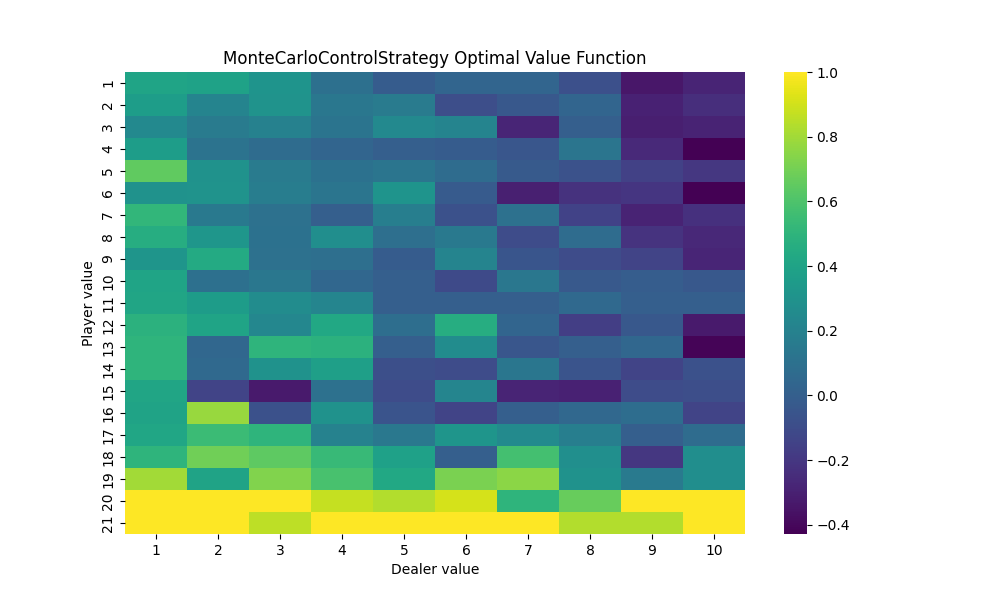
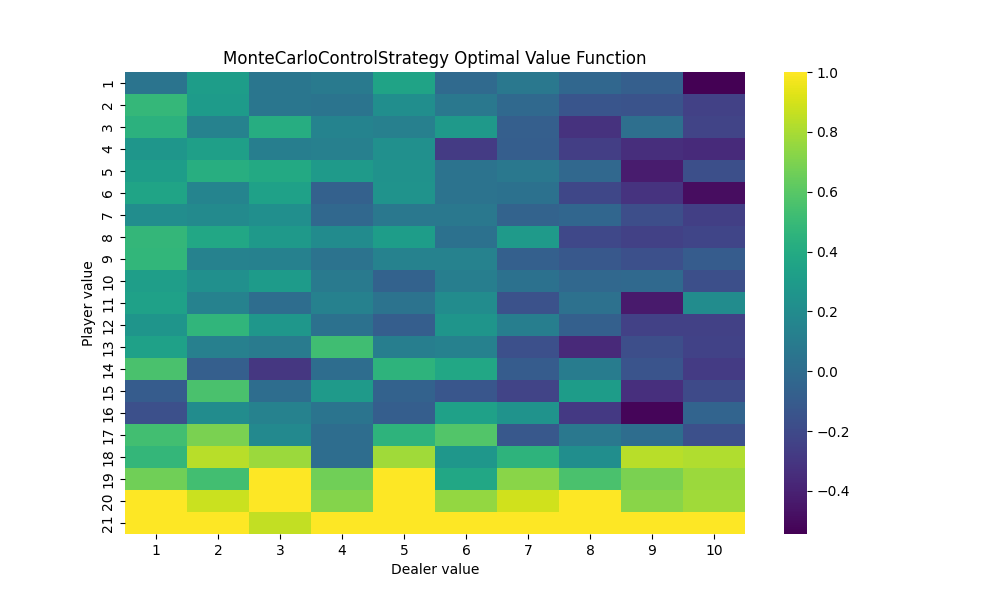
Use defaultdict instead of pd.DataFrame for book-keeping q, n, and pi parameters. pd.DataFrame has non-trivial overhead for this case. Latency now is ~10x better.
(easy21) ly232@ly232s-iMac-Pro easy21 % uv run pytest episode_test.py -s

==================================================================================== test session starts =====================================================================================
platform darwin -- Python 3.14.2, pytest-9.0.2, pluggy-1.6.0
rootdir: /Users/ly232/github/easy21
configfile: pyproject.toml
collected 4 items

episode_test.py [State(player_value=6, dealer_value=10), <Action.STICK: 'stick'>, -1, State(player_value=6, dealer_value=17)]
.[State(player_value=5, dealer_value=9), <Action.HIT: 'hit'>, -1, State(player_value=-2, dealer_value=9)]
.[State(player_value=4, dealer_value=1), <Action.STICK: 'stick'>, -1, State(player_value=4, dealer_value=17)]
100%|█████████████████████████████████████████████████████████████████████████████████████████████████████████████████████████████████████████████████| 10000/10000 [00:05<00:00, 1798.50it/s]
.

===================================================================================== 4 passed in 9.29s ======================================================================================

diff --git a/control_strategy.py b/control_strategy.py
@@ -1,5 +1,6 @@
 """Module for all available control strategies in Easy21."""
 
+from collections import defaultdict, Counter
 from enum import StrEnum
 from dataclasses import dataclass
 
@@ -12,15 +13,6 @@ import seaborn as sns
 
 # Hyperparameters.
 N0 = 100  # Used for epsilon-greedy. episilon = N0 / (N0 + N(s))
-
-
-def _initial_action_distribution() -> dict:
-    """Module-level factory returning the initial action probability dict.
-
-    Using a top-level function (instead of a local lambda) makes the
-    defaultdict pickling-safe.
-    """
-    return {Action.HIT: 0.5, Action.STICK: 0.5}
 
 
 @dataclass(frozen=True)
@@ -48,19 +40,33 @@ class Action(StrEnum):
     STICK = "stick"
 
 
+#
+# Module-level factory methods.
+# Using a top-level function (instead of a local lambda) makes the
+# defaultdict pickling-safe.
+#
+def _initial_action_distribution() -> dict:
+    return {Action.HIT: 0.5, Action.STICK: 0.5}
+
+def _float_defaultdict() -> dict[Action, float]:
+    return defaultdict(float)
+
+
 class Policy:
     '''Defines a policy mapping states to proability distribution of actions.'''
 
     # Conditional probability of actions for a given state.
-    distribution: pd.DataFrame = pd.DataFrame(columns=list(Action))
+    # Note: cannot use lambda because of pickling issues.
+    distribution: dict[State, dict[Action, float]] = defaultdict(_initial_action_distribution)
 
     def sample(self, state: State) -> Action:
         '''Samples an action based on the policy's distribution for the given state.'''
-        if state not in self.distribution.index:
+        if state not in self.distribution:
             # Fallback to uniform random if this state hasn't been explored before.
             return random.choice(list(Action))
-        probabilities = self.distribution.loc[state].fillna(0).tolist()
-        return random.choices(list(Action), weights=list(probabilities), k=1)[0]
+        actions = list(self.distribution[state].keys())
+        probabilities = list(self.distribution[state].values())
+        return random.choices(actions, weights=list(probabilities), k=1)[0]
 
 
 class ControlStrategy:
@@ -106,10 +112,8 @@ class MonteCarloControlStrategy(ControlStrategy):
 
     def __init__(self) -> None:
         # Monte Carlo control parameters.
-        # - index: states
-        # - columns: actions
-        self.n: pd.DataFrame = pd.DataFrame(columns=list(Action))
-        self.q: pd.DataFrame = pd.DataFrame(columns=list(Action))
+        self.n: dict[State, dict[Action, int]] = defaultdict(Counter)
+        self.q: dict[State, dict[Action, float]] = defaultdict(_float_defaultdict)
 
         # Initialize policy to uniform random.
         self.policy = Policy()
@@ -121,39 +125,22 @@ class MonteCarloControlStrategy(ControlStrategy):
         for i in range(0, len(trajectory) - 3, 3):
             state, action, reward = trajectory[i], trajectory[i+1], trajectory[i+2]
             gain += reward
-            # Note: cannot do self.n.at[state, action] = 0 directly due to pandas behavior.
-            # Pandas does not actually create a new row or column. Also Pandas df expects
-            # column to exist before index (row) assignment.
-            if action not in self.n.columns:
-                self.n[action] = 0
-            if state not in self.n.index:
-                self.n.loc[state] = 0
-            self.n.at[state, action] += 1
-            assert not pd.isna(self.n.at[state, action]), \
-                f"N value should not be NaN after update. State: {state}, Action: {action}"
-        if action not in self.q.columns:
-            self.q[action] = 0.0
-        if state not in self.q.index:
-            self.q.loc[state] = 0.0
-        current_q = self.q.at[state, action]
-        if pd.isna(current_q):
-            current_q = 0.0
-        alpha = 1.0 / self.n.at[state, action]
-        self.q.at[state, action] += alpha * (gain - current_q)
-        assert not pd.isna(self.q.at[state, action]), \
-            f"Q value should not be NaN after update. State: {state}, Action: {action}"
+            self.n[state][action] += 1
+        current_q = self.q[state][action]
+        alpha = 1.0 / self.n[state][action]
+        self.q[state][action] += alpha * (gain - current_q)
 
         # Policy improvement using episilon-greedy. Based on slide 11 in
         # https://davidstarsilver.wordpress.com/wp-content/uploads/2025/04/lecture-5-model-free-control-.pdf
-        new_distribution = pd.DataFrame(columns=list(Action))
-        for state in self.q.index:
-            best_action = self.q.loc[state].idxmax()
+        new_distribution = defaultdict(_initial_action_distribution)
+        for state in self.q.keys():
+            best_action = max(self.q[state], key=self.q[state].get)
             available_actions = list(Action)
             m = len(available_actions)
-            epsilon = N0 / (N0 + self.n.loc[state].max())
-            new_distribution.at[state, best_action] = epsilon / m + 1 - epsilon
+            epsilon = N0 / (N0 + max(self.n[state].values()))
+            new_distribution[state][best_action] = epsilon / m + 1 - epsilon
             for action in available_actions:
-                new_distribution.at[state, action] = epsilon / m
+                new_distribution[state][action] = epsilon / m
         self.policy.distribution =new_distribution
 
     def next_action(self, state: State) -> Action:
@@ -162,9 +149,12 @@ class MonteCarloControlStrategy(ControlStrategy):
     
     def get_plot_df(self) -> pd.DataFrame:
         '''Plots the optimal value function based on the learned Q values.'''
-        max_q = self.q.max(axis=1)
+        max_q = {
+            state: max(self.q[state].values())
+            for state in self.q.keys()
+        }
         plot_df = pd.DataFrame()
-        for state in max_q.index:
+        for state, max_action_value in max_q.items():
             player_value, dealer_value = state.player_value, state.dealer_value
-            plot_df.at[player_value, dealer_value] = max_q.at[state]
+            plot_df.at[player_value, dealer_value] = max_action_value
         return plot_df.sort_index().sort_index(axis=1)

diff --git a/episode_test.py b/episode_test.py
@@ -50,6 +50,5 @@ def test_episode_monte_carlo_strategy() -> None:
             episode = Episode(strategy=monte_carlo_strategy)
             trajectory = episode.run()
             monte_carlo_strategy.policy_iteration(trajectory=trajectory)
-        print(monte_carlo_strategy.q)
         monte_carlo_strategy.persist()
     monte_carlo_strategy.plot_optimal_value()
